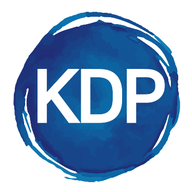
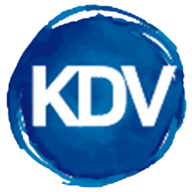
20230104 16:49

diff --git a/templates/base.html b/templates/base.html
@@ -18,25 +18,24 @@
     <link rel="stylesheet" href="https://cdnjs.cloudflare.com/ajax/libs/font-awesome/5.13.0/css/all.min.css" >
     <link rel="shortcut icon" type="image/x-icon" href="{% static 'img/favicon.ico' %}">
     <link rel="apple-touch-icon" type="image/x-icon" href="{% static 'img/favicon.ico' %}">
-    <link rel="apple-touch-icon" sizes="57x57" href="{% static 'img/apple-icon-57x57.png' %}">
-    <link rel="apple-touch-icon" sizes="60x60" href="{% static 'img//apple-icon-60x60.png' %}">
-    <link rel="apple-touch-icon" sizes="72x72" href="{% static 'img//apple-icon-72x72.png' %}">
-    <link rel="apple-touch-icon" sizes="76x76" href="{% static 'img//apple-icon-76x76.png' %}">
-    <link rel="apple-touch-icon" sizes="114x114" href="{% static 'img//apple-icon-114x114.png' %}">
-    <link rel="apple-touch-icon" sizes="120x120" href="{% static 'img//apple-icon-120x120.png' %}">
-    <link rel="apple-touch-icon" sizes="144x144" href="{% static 'img//apple-icon-144x144.png' %}">
-    <link rel="apple-touch-icon" sizes="152x152" href="{% static 'img//apple-icon-152x152.png' %}">
-    <link rel="apple-touch-icon" sizes="180x180" href="{% static 'img//apple-icon-180x180.png' %}">
-    <link rel="icon" type="image/png" sizes="192x192"  href="{% static 'img//android-icon-192x192.png' %}">
-    <link rel="icon" type="image/png" sizes="32x32" href="{% static 'img//favicon-32x32.png' %}">
-    <link rel="icon" type="image/png" sizes="96x96" href="{% static 'img//favicon-96x96.png' %}">
-    <link rel="icon" type="image/png" sizes="16x16" href="{% static 'img//favicon-16x16.png' %}">
-    <link rel="manifest" href="{% static 'manifest.json' %}">
+    <link rel="apple-touch-icon" sizes="57x57" href="/apple-icon-57x57.png">
+    <link rel="apple-touch-icon" sizes="60x60" href="/apple-icon-60x60.png">
+    <link rel="apple-touch-icon" sizes="72x72" href="/apple-icon-72x72.png">
+    <link rel="apple-touch-icon" sizes="76x76" href="/apple-icon-76x76.png">
+    <link rel="apple-touch-icon" sizes="114x114" href="/apple-icon-114x114.png">
+    <link rel="apple-touch-icon" sizes="120x120" href="/apple-icon-120x120.png">
+    <link rel="apple-touch-icon" sizes="144x144" href="/apple-icon-144x144.png">
+    <link rel="apple-touch-icon" sizes="152x152" href="/apple-icon-152x152.png">
+    <link rel="apple-touch-icon" sizes="180x180" href="/apple-icon-180x180.png">
+    <link rel="icon" type="image/png" sizes="192x192"  href="/android-icon-192x192.png">
+    <link rel="icon" type="image/png" sizes="32x32" href="/favicon-32x32.png">
+    <link rel="icon" type="image/png" sizes="96x96" href="/favicon-96x96.png">
+    <link rel="icon" type="image/png" sizes="16x16" href="/favicon-16x16.png">
+    <link rel="manifest" href="/manifest.json">
     <meta name="msapplication-TileColor" content="#ffffff">
     <meta name="msapplication-TileImage" content="/ms-icon-144x144.png">
     <meta name="theme-color" content="#ffffff">
-    <meta name="msapplication-TileColor" content="#ffffff">
-    <meta name="theme-color" content="#ffffff">
+
     <title>KDV</title>
 </head>
 <body>
